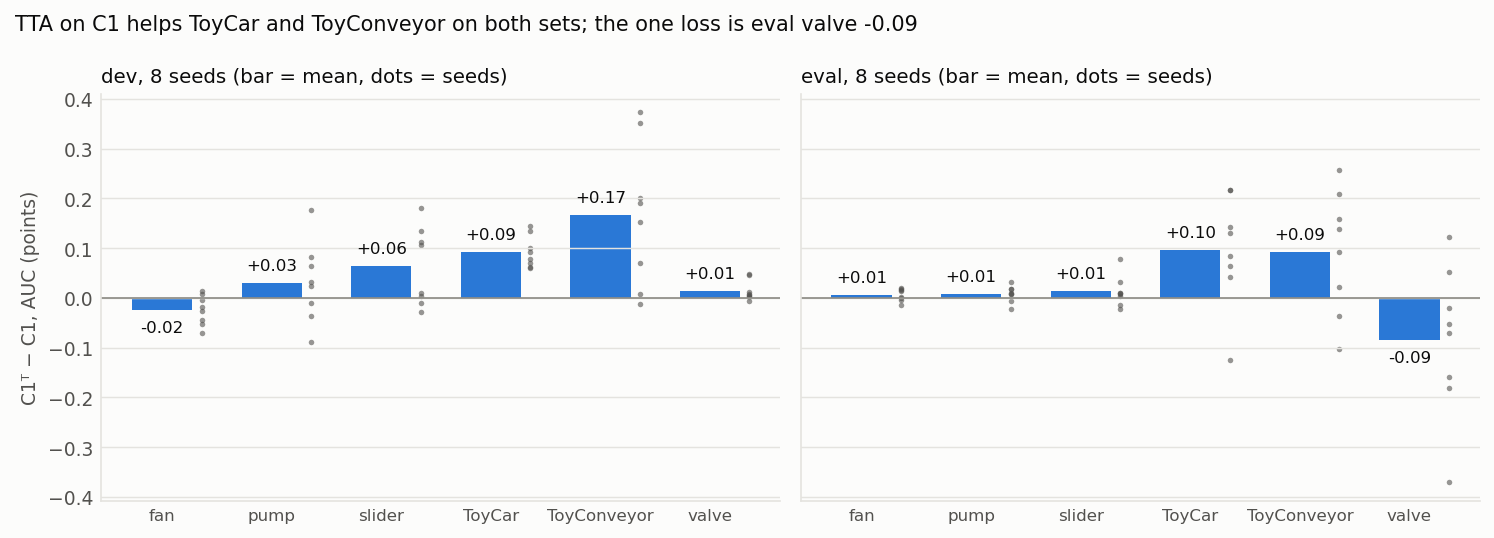
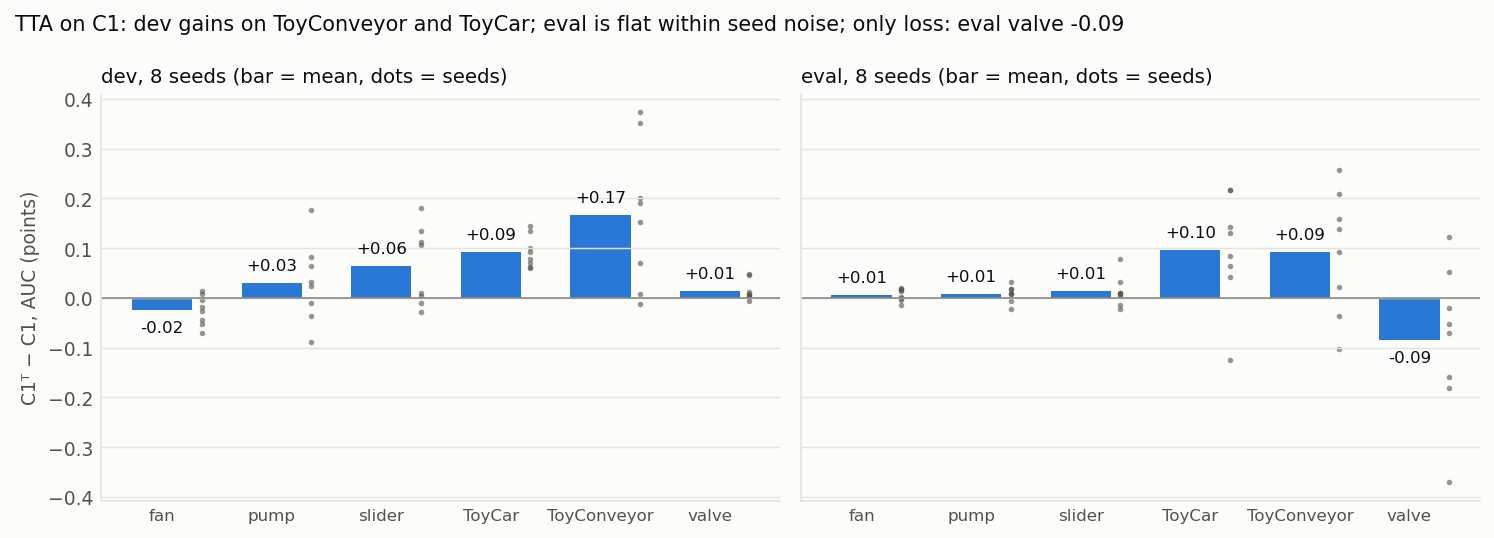
single-final review: fig2 title says eval is flat within noise; README notes eval bar was a point estimate, not a gain

Changed region(s): [[0.0616, 0.0297, 0.7697, 0.0595]]

diff --git a/synthesis/single-final/make_plots.py b/synthesis/single-final/make_plots.py
@@ -133,8 +133,10 @@ def fig2():
     axes[0][0].set_ylabel('C1ᵀ − C1, AUC (points)')
     pm = {ds: d['per_machine_dAUC'] for ds, d in cells}
     neg = [f'{ds} {m} {v:+.2f}' for ds, p in pm.items() for m, v in p.items() if v < -0.05]
-    fig.suptitle('TTA on C1 helps ToyCar and ToyConveyor on ' + ('both sets' if len(cells) > 1 else 'dev')
-                 + ('; the one loss is ' + ', '.join(neg) if neg else ''), x=0.01, ha='left', fontsize=10)
+    # [review 2026-11-09] was 'TTA on C1 helps ToyCar and ToyConveyor on both sets; ...': eval moves are
+    # +0.10 / +0.09 AUC with 1/8 and 2/8 seeds negative, far under the ToyConveyor noise floor
+    fig.suptitle('TTA on C1: dev gains on ToyConveyor and ToyCar; eval is flat within seed noise'
+                 + ('; only loss: ' + ', '.join(neg) if neg else ''), x=0.01, ha='left', fontsize=10)
     fig.tight_layout()
     save(fig, 'fig2_per_machine.png')
 

diff --git a/synthesis/single-final/README.md b/synthesis/single-final/README.md
@@ -287,6 +287,10 @@ rule `C1T`).
 
 - Read it as "TTA's dev gain carries to C1, and eval does not contradict it". Eval does not show
   a gain: the eval CI includes 0, and 3 of 8 seeds are negative.
+- **[review 2026-11-09]** The adoption bar is asymmetric. On eval it was a point estimate,
+  Δ ≥ 0, and the result was +0.014 with 3/8 seeds negative and a CI spanning 0. So C1ᵀ is
+  adopted as "no worse on eval, slightly better on dev", not as a demonstrated eval gain. The
+  `fresh-confirm` seeds are the real test.
 - The rule was fixed before eval, and it passes. `fresh-confirm` scores C1ᵀ and C1 on seeds no
   rule has seen. If C1ᵀ falls below C1 there, that is the evidence to revert. A small eval
   shortfall alone is not: C1 is the fallback, simpler and 3× cheaper.
@@ -339,7 +343,7 @@ three-term sum did not dilute TTA. On dev, C1ᵀ's gain over C1 (+0.10) equals T
 | figure | shows |
 |---|---|
 | `plots/fig1_delta.png` | C1ᵀ − C1 Amean by stage (gate, confirm, dev 8, eval 8): per-seed dots, paired 95 % bootstrap, seeds positive; orange ticks are S1′ᵀ − C1. Dev +0.10 (8/8), eval +0.01 (5/8) |
-| `plots/fig2_per_machine.png` | C1ᵀ − C1 AUC per machine, dev and eval, with seed dots. ToyCar and ToyConveyor gain on both sets; eval valve −0.09 |
+| `plots/fig2_per_machine.png` | C1ᵀ − C1 AUC per machine, dev and eval, with seed dots. ToyCar and ToyConveyor gain on dev. **[review 2026-11-09]** The original caption said "on both sets", but eval (+0.10 / +0.09, 1/8 and 2/8 seeds negative) is flat within seed noise; eval valve −0.09 |
 | `plots/fig3_absolute.png` | 8-seed Amean of S1′, S1′ᵀ, C1, C1ᵀ on dev and eval, with seed dots and the paper line |
 
 ## Using the adopted rule (for `fresh-confirm`)
